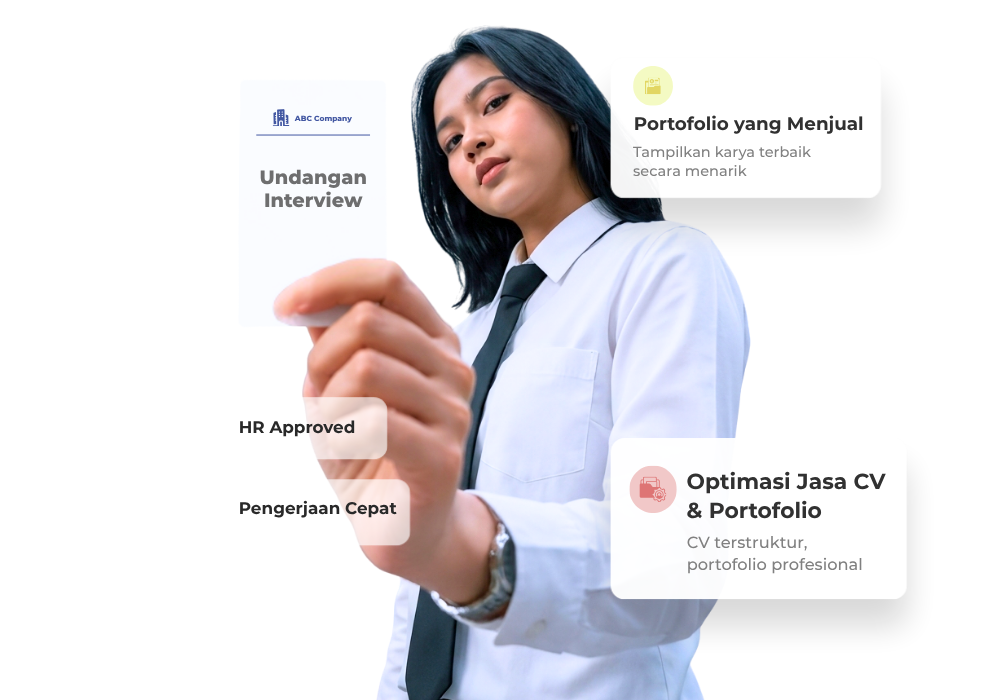
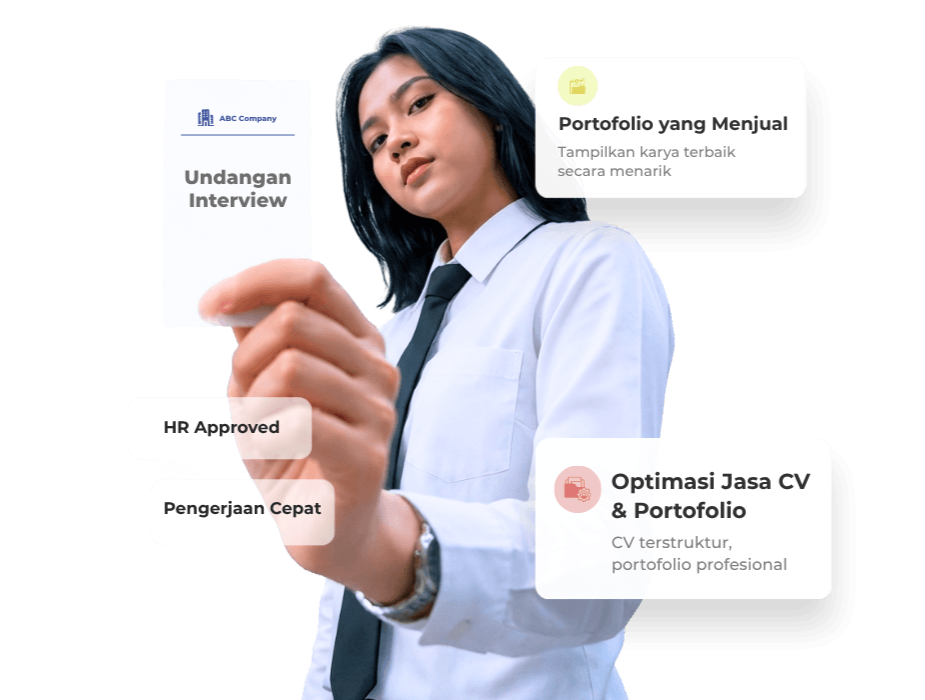
Update hero image and adjust mobile size to center it

Changed region(s): [[0.1816, 0.03, 0.8778, 1.0]]

diff --git a/src/components/sections/HeroSection.tsx b/src/components/sections/HeroSection.tsx
@@ -121,7 +121,7 @@ export default function HeroSection() {
             transition={{ duration: 0.8, ease: "easeOut" }}
             className="flex items-end justify-center lg:order-2 w-full mt-6 md:mt-0"
           >
-            <div className="relative w-[130%] sm:w-full max-w-md sm:max-w-lg aspect-[4/3] -mb-1 origin-bottom scale-150 sm:scale-100 translate-x-12 sm:translate-x-0">
+            <div className="relative w-[120%] sm:w-full max-w-md sm:max-w-lg aspect-[4/3] -mb-1 origin-bottom scale-125 sm:scale-100 translate-x-2 sm:translate-x-0">
               <Image
                 src="/assets/media/hero_career.png"
                 alt="CV Portfolio Preview"
